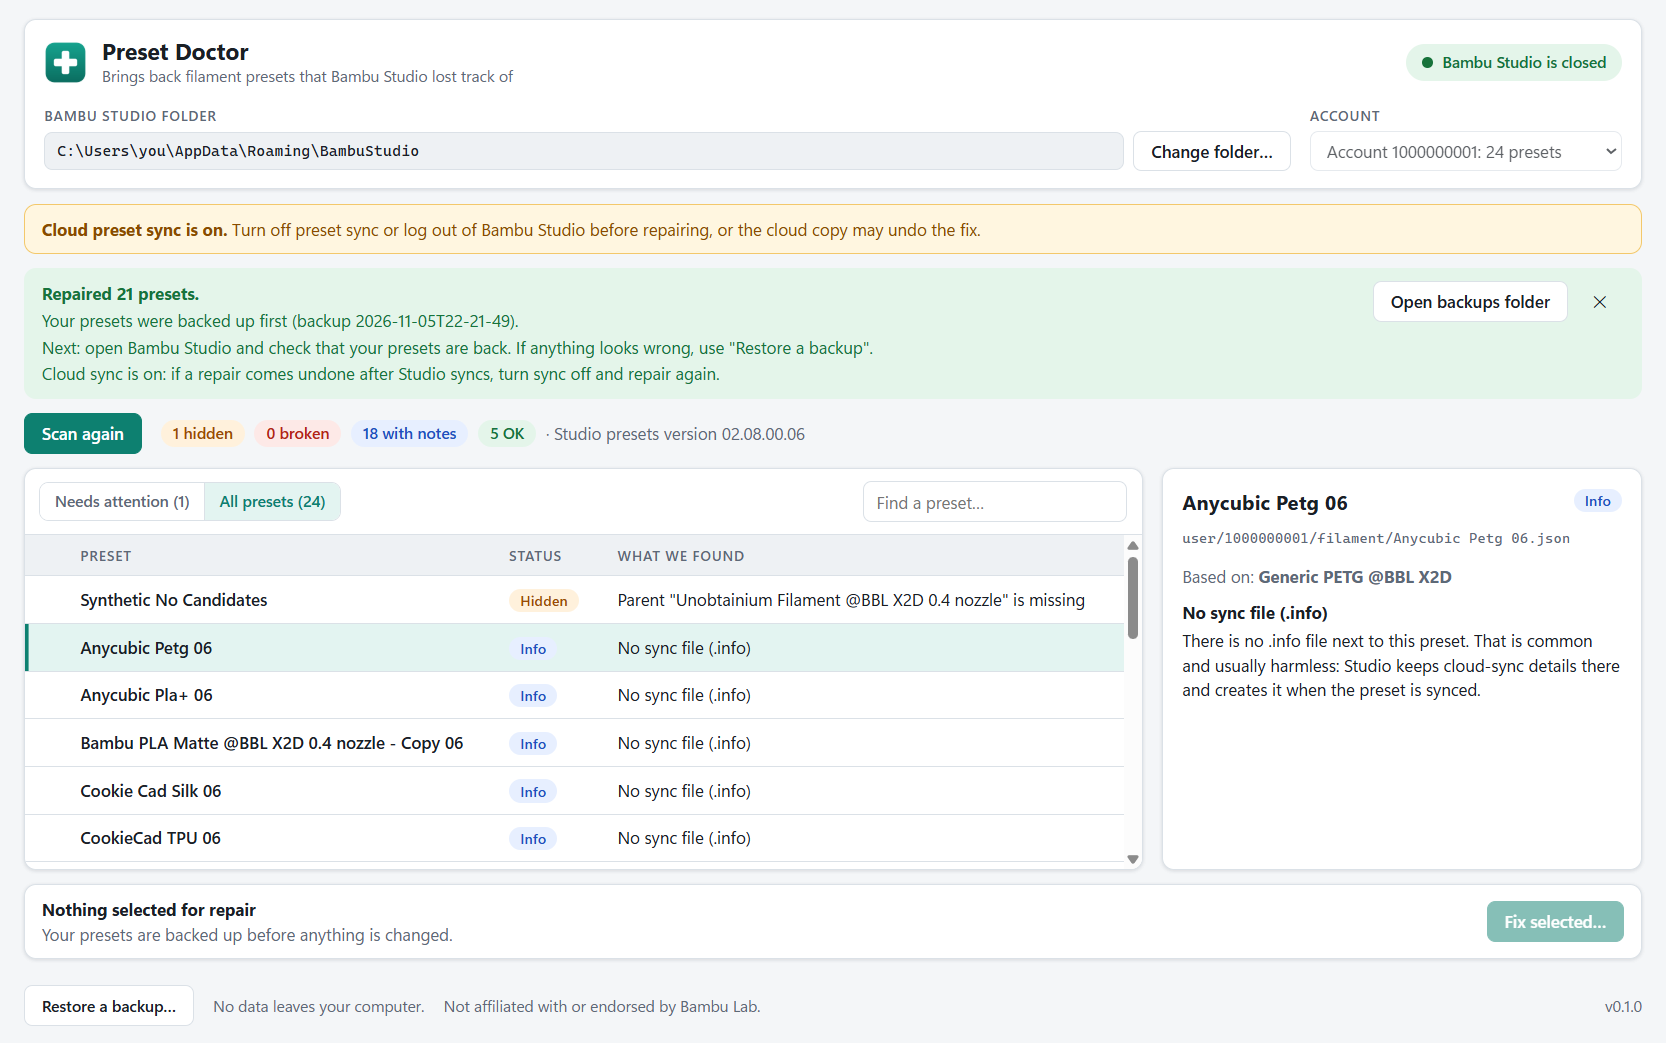
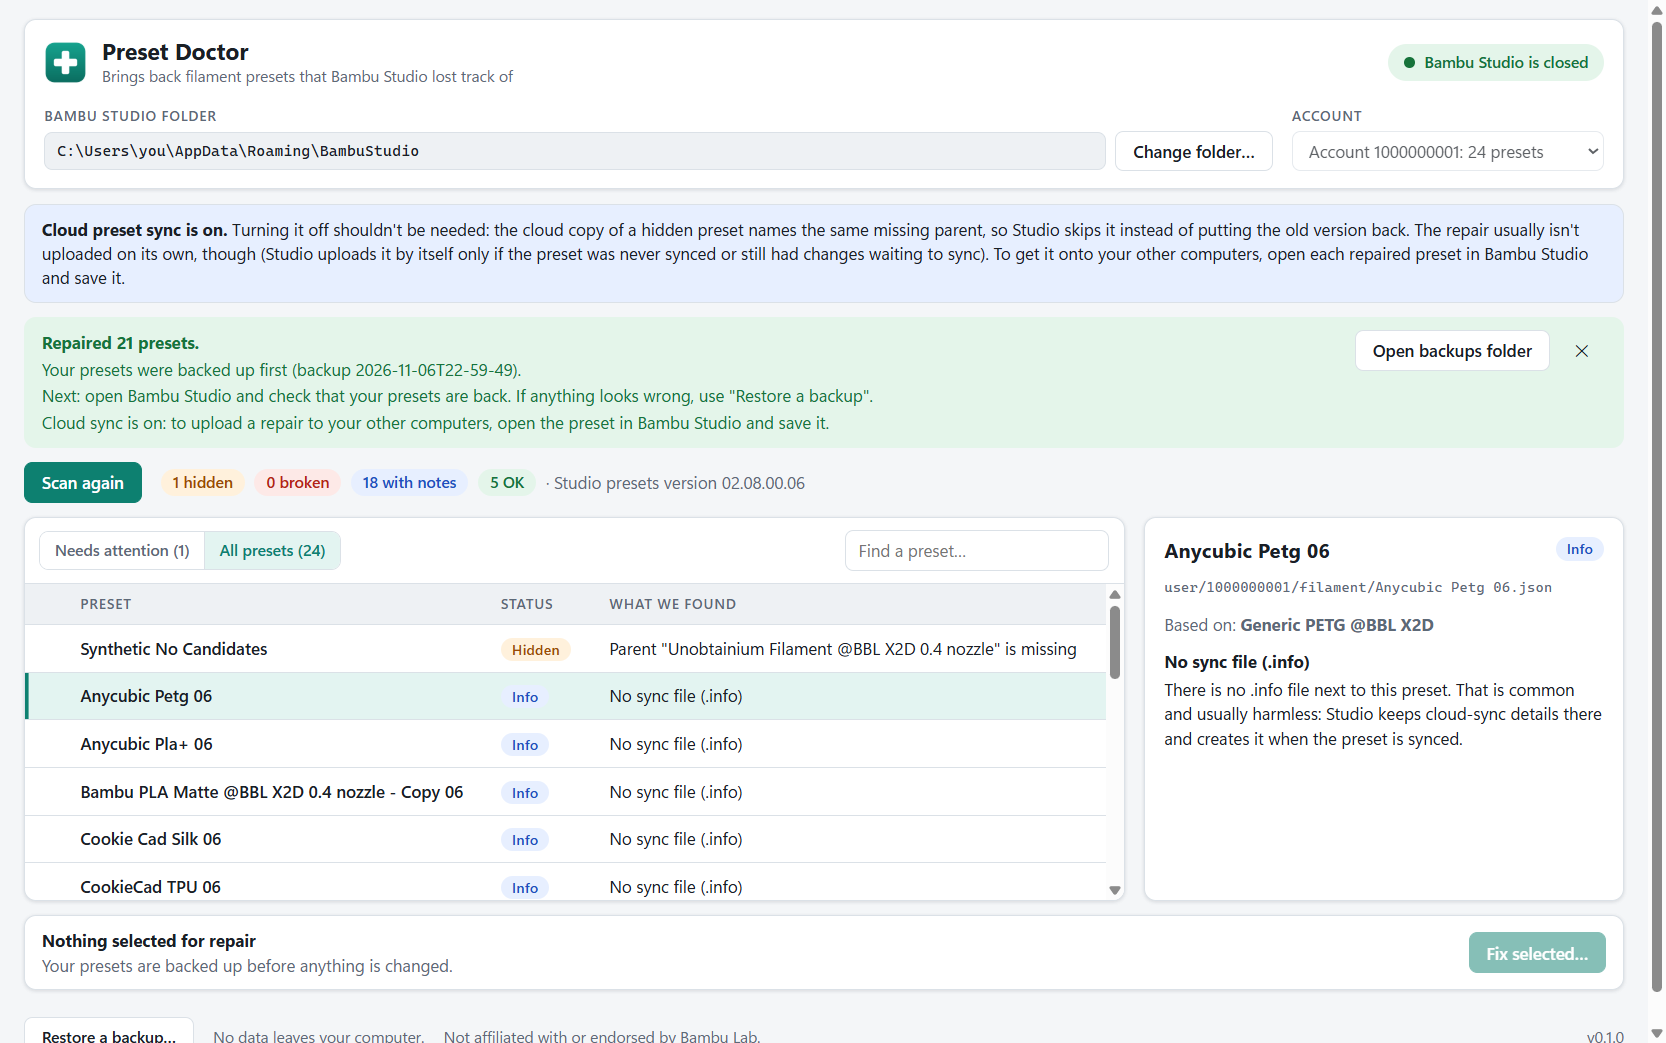
Add CHANGELOG; refresh README screenshots for the new sync note

diff --git a/CHANGELOG.md b/CHANGELOG.md
@@ -1,0 +1,44 @@
+# Changelog
+
+## Unreleased
+
+Waiting on an in-Studio test (see [docs/real-test-checklist.md](docs/real-test-checklist.md))
+before it is tagged.
+
+### Changed
+
+- **Cloud sync note is calmer and more precise.** Bambu Studio's source shows a cloud copy that
+  still names the missing parent is skipped, so it can't undo a repair, and turning sync off
+  shouldn't be needed. The repair stays on this computer until the preset is saved once in
+  Studio. The note is now informational instead of a warning.
+- **Another printer's preset can be the suggested fix** when its compatibility list covers your
+  printer and nozzle (Bambu sometimes folds one printer's preset into another's).
+- **Your own presets are only suggested as a parent when Studio can use them**: presets in
+  `filament/base/` whose parent is a system preset (or none) and whose file name matches.
+
+### Fixed
+
+- System presets are named the way Studio names them (from the name inside each file, not the
+  index), so an old profile where the two differ no longer shows a healthy preset as hidden.
+- `base_id` is never set equal to the preset's own `setting_id`, which Studio treats as broken.
+
+### Added
+
+- SPEC.md §10 records what Bambu Studio's source code says about each open question, with
+  citations (provisional until confirmed in Studio).
+- `scripts/r1-history.ts` and [docs/r1-history.md](docs/r1-history.md): replay of every
+  removed system preset across 17 Studio releases. No wrong fix was pre-selected.
+
+## 0.1.0 (2026-11-06)
+
+First release.
+
+- Finds filament presets Bambu Studio stopped loading because their parent preset was renamed
+  or removed, and suggests the right new parent (checked against `compatible_printers`, so a
+  0.6 mm preset gets a 0.6 mm parent; nothing is pre-selected when the nozzle is ambiguous).
+- Reports damaged presets and name/file mismatches.
+- Backs up the whole `user` folder before the first change, shows a diff of every change, edits
+  only the changed line, refuses to write while Bambu Studio is running, restores in one step.
+- Windows app (portable exe, edits the real folder), web app on GitHub Pages (works on a copy of
+  the folder), and a command line tool.
+- No network access of any kind.
